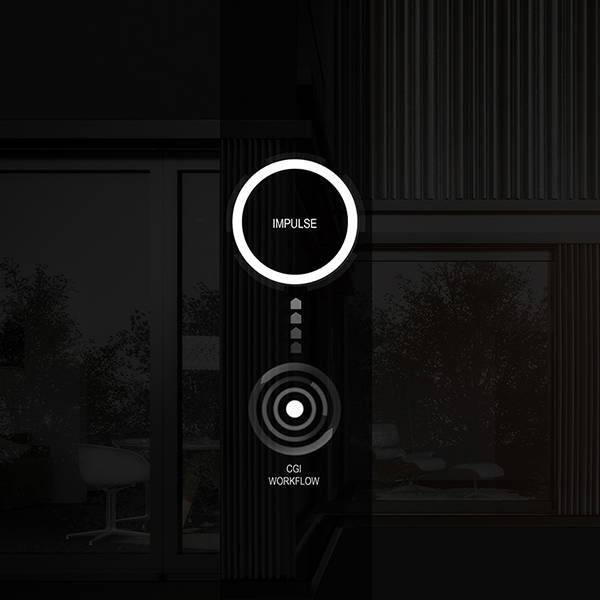
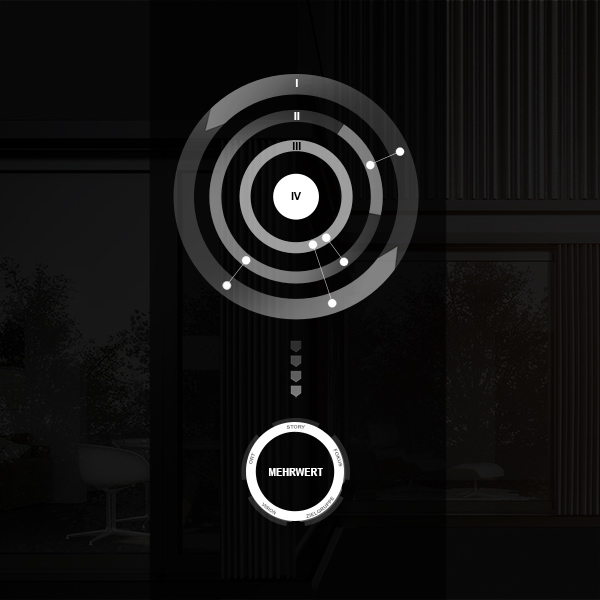
2812
1

Changed region(s): [[0.27, 0.0, 0.75, 0.87], [0.3, 0.54, 0.36, 0.63], [0.3, 0.84, 0.33, 0.87]]

diff --git a/pages_about_workflow.html b/pages_about_workflow.html
@@ -1,0 +1,259 @@
+<!doctype html>
+<html lang="en">
+  <head>
+    <!-- Basic page needs-->
+    <title>Ferencg Gor - Portfolio</title>
+    <meta charset="UTF-8"/>
+    <meta name="author" content=""/>
+    <meta name="description" content=""/>
+    <meta name="keywords" content=""/>
+    <!-- Mobile specific metas-->
+    <meta name="viewport" content="width=device-width,initial-scale=1.0"/>
+    <!-- Favicon-->
+    <link rel="shortcut icon" href="images/favicon.ico"/>
+    <!-- Google Web Fonts-->
+    <link rel="stylesheet" href="https://fonts.googleapis.com/css?family=Poppins:300,400,500,600,700"/>
+    <link rel="stylesheet" href="https://fonts.googleapis.com/css?family=Abril+Fatface"/>
+    <link rel="stylesheet" href="https://fonts.googleapis.com/css?family=Unna"/>
+    <link rel="stylesheet" href="https://fonts.googleapis.com/css?family=PT+Serif"/>
+    <link rel="stylesheet" href="https://fonts.googleapis.com/css?family=Muli"/>
+    <!-- Vendor CSS-->
+    <link rel="stylesheet" media="all" href="css/bootstrap.min.css"/>
+    <link rel="stylesheet" media="all" href="css/font-awesome.min.css"/>
+    <link rel="stylesheet" media="all" href="css/linearicons.css"/>
+<link rel="stylesheet" media="all" href="css/apolo-icons.css"/>
+    <link rel="stylesheet" media="all" href="css/hamburgers.min.css"/>
+    <link rel="stylesheet" media="all" href="css/animate.css"/>
+    <link rel="stylesheet" media="all" href="vendors/fancybox/jquery.fancybox.min.css"/>
+    <link rel="stylesheet" media="all" href="vendors/fullpage/jquery.fullpage.min.css"/>
+    <link rel="stylesheet" media="all" href="vendors/owl-carousel/assets/owl.carousel.min.css"/>
+    <link rel="stylesheet" media="all" href="vendors/mCustomScrollbar/jquery.mCustomScrollbar.min.css"/>
+    <link rel="stylesheet" media="all" href="vendors/arcticmodal/jquery.arcticmodal-0.3.css"/>
+    <!-- Theme CSS-->
+    <link rel="stylesheet" media="all" href="css/style.css"/>
+    <!-- Vendor JS-->
+    <script src="vendors/modernizr.js"></script>
+  </head>
+  <body class="apo-header-vertical-left apo-page-dark-skin apo-full-page-fixed-content" data-bg-img-src="images/page-bg-img-6.png">
+    <!-- Preloader-->
+    <div class="apo-preloader">
+      <div class="apo-preloader-outer">
+        <div class="apo-preloader-inner">
+          <div class="apo-loader">
+            <img src="images/logo-2.png" alt="">
+          </div>
+        </div>
+      </div>
+    </div>
+    <!-- End Preloader-->
+    <!-- Site Header-->
+    <!-- Hidden Side Column-->
+    <aside id="apo-hidden-column" class="apo-hidden-column apo-hidden-column-dark">
+      <div class="apo-hidden-column-container">
+        <header class="apo-hidden-column-header">
+          <div class="apo-hidden-column-col">
+            <div class="apo-grid apo-cols-2">
+              <div class="apo-grid-col"><a href="index.html" class="apo-logo"><img src="images/logo-light.png" alt=""/></a></div>
+              <div class="apo-grid-col apo-align-right">
+                <!-- Social Networks-->
+                <ul class="apo-social-networks">
+                 
+                  <li><a href="https://www.instagram.com/ferenc_gor/"><i class="fa fa-instagram"></i></a></li>
+                </ul>
+                <!-- End Social Networks-->
+              </div>
+            </div>
+          </div>
+        </header>
+        <div class="apo-hidden-column-content">
+          <div class="apo-hidden-column-col">
+            <!-- Navigation-->
+            <nav class="apo-navigation-container">
+              <ul class="apo-navigation">
+                <li><a href="index.html">Home</a>
+                  
+                </li>
+                <li><a href="pages_about_me.html">Über Mich</a></li>
+                <li class="apo-has-children"><a>Visionen</a>
+                  <!-- Sub Menu (level 2)-->
+                  <ul class="apo-sub-menu">
+                    	<li><a >"Big Picture" und Fokus</a></li>
+                      <li><a >Story neben Mehrwert</a></li>
+                      <li><a >Produktvisualisierung  - Virtual Studio</a></li>
+                  </ul>
+                  <!-- End of SubMenu-->
+                </li>
+             
+                <li><a href="pages_contact.html">Kontakt</a></li>
+              </ul>
+            </nav>
+            <!-- End Navigation-->
+          </div>
+        </div>
+        <footer class="apo-hidden-column-footer">
+          <div class="apo-hidden-column-col">
+            <div class="apo-hidden-column-actions">
+              <div class="apo-hidden-column-action">
+                
+              </div>
+              <div class="apo-hidden-column-action">
+                <button class="apo-close-btn apo-hidden-column-closing"><i class="icon icon-cross"></i>Close</button>
+              </div>
+            </div>
+          </div>
+        </footer>
+      </div>
+    </aside>
+    <!-- End Hidden Side Column-->
+    <header id="header" class="apo-header apo-header-dark apo-header-vertical">
+      <div class="apo-header-section">
+        <div class="apo-header-component-first">
+          <div class="apo-header-items">
+            <div class="apo-header-item">
+              <!-- Logo--><a href="index.html" title="Home" class="apo-logo"><img src="images/logo-light.png" alt="Logo"/></a>
+              <!-- End Logo-->
+            </div>
+            <div class="apo-header-item">
+              <!-- Social Networks-->
+              <ul class="apo-social-networks">
+                
+                <li><a href="https://www.instagram.com/ferenc_gor/"><i class="fa fa-instagram"></i></a></li>
+              </ul>
+              <!-- End Social Networks-->
+            </div>
+          </div>
+        </div>
+        <div class="apo-header-component-middle">
+          <div class="apo-header-items">
+            <div class="apo-header-item">
+             <h1 class="apo-page-title">WORKFLOW</h1>
+            </div>
+          </div>
+        </div>
+        <div class="apo-header-component-last">
+          <div class="apo-header-items">
+            
+            <div class="apo-header-item">
+              <!-- Navigation Button-->
+              <div type="button" class="apo-header-button apo-hidden-column-invoker apo-d-xs-none hamburger hamburger--emphatic"><span class="hamburger-box"><span class="hamburger-inner"></span></span></div>
+              <!-- End Navigation Button-->
+              <!-- Navigation Button-->
+              <div type="button" data-arctic-modal="modals/modal_full_screen_navigation.html" data-arctic-modal-type="ajax" class="apo-header-button hamburger apo-d-none apo-d-xs-inline-block hamburger--emphatic apo-hamburger-clickable"><span class="hamburger-box"><span class="hamburger-inner"></span></span></div>
+              <!-- End Navigation Button-->
+            </div>
+          </div>
+        </div>
+      </div>
+    </header>
+    <!-- End Site Header-->
+    <!-- Page Content-->
+    <div class="apo-page">
+      <div data-bg-img-src="images/img-wf.jpg" class="apo-full-page-fixed-col"></div>
+      <div id="apo-full-page" data-destroy-on-mobile="true" class="apo-full-page-container">
+        <!-- Navigation-->
+        <nav class="apo-full-page-navigation">
+          <ul id="apo-full-page-nav">
+            <li></li>
+          </ul>
+        </nav>
+        <!-- End Navigation-->
+        <div class="fp-section">
+          <section class="apo-section">
+            <header class="apo-person-header">
+            
+            </header>
+            <div class="apo-person-body">
+              <blockquote class="apo-person-position">
+                <p> Der Ziel ist, mit einer bilateral vorabgestimmten, optierten Workflow, einen starken Mehrwert in Gesamtprojekt oder in Portfolio zu generieren.</p>
+              </blockquote>
+            </div>
+            <footer class="apo-person-footer"><span class="apo-scroll-down-label">Scroll Down<i class="icon-arrow-down"></i></span></footer>
+          </section>
+        </div>
+        <div class="fp-section">
+          <section class="apo-section">
+            <header class="apo-person-header">
+              
+            </header>
+            <div class="apo-person-body">
+              <div class="apo-experience-list">
+                <article class="apo-experience-list-item">
+                
+                  <div class="apo-experience-list-item-body">
+                    <p><strong class="apo-experience-list-item-position">I. Konzeptaufbau, Feedbacks, Beratung</strong> - Bilaterale Abstimmung</p>
+                  </div>
+                </article>
+				 <article class="apo-experience-list-item">
+                  <div class="apo-experience-list-item-body">
+                    <p><strong class="apo-experience-list-item-position">II. Fokus: Komposition, Perspektive</strong> - 3-4 “Weiss”vorschau/Frame pro Perspektive
+		- 3D Modellaufbau/Ergänzungen</p>
+                  </div>
+                </article>
+				 <article class="apo-experience-list-item">
+                  <div class="apo-experience-list-item-body">
+                    <p><strong class="apo-experience-list-item-position">III. Gesamtansicht/Montage</strong> - 1 Vorschau ( 2k ) - 90% fertiger Stand 
+		- Texturen, Belichtungskonzept
+		- Komposition & Story</p>
+                  </div>
+                </article>
+				 <article class="apo-experience-list-item">
+                  <div class="apo-experience-list-item-body">
+                    <p><strong class="apo-experience-list-item-position">IV. Finales Ziel</strong> - Finale Visualisierung(4k)/Animation(1080p)
+ 		
+		- Höchster Quatät & starke Story</p>
+                  </div>
+                </article>
+               
+              
+              </div>
+            </div>
+            <footer class="apo-person-footer"><span class="apo-scroll-down-label">Scroll Down<i class="icon-arrow-down"></i></span></footer>
+          </section>
+        </div>
+        <div class="fp-section">
+          <div class="apo-section apo-align-center">
+            <div class="apo-personal-body"><img src="images/logo-white-large.png" alt="" class="apo-personal-logo"/>
+              <p>Ich freue mich auf Ihre Kontaktaufnahme
+zu starten.</p>
+              <ul class="apo-personal-body">
+                <li><a href="mailto:ferencgor.arch@gmail.com">ferencgor.arch@gmail.com</a></li>
+                <li><a href="tel:#">+41 77 523 1747</a></li>
+              </ul>
+            </div>
+          </div>
+        </div>
+      </div>
+    </div>
+    <!-- End Page Content-->
+    <!-- Footer-->
+    <!-- End Footer-->
+    <!-- Vendor JS-->
+    <script src="https://code.jquery.com/jquery-3.1.1.min.js" integrity="sha256-hVVnYaiADRTO2PzUGmuLJr8BLUSjGIZsDYGmIJLv2b8=" crossorigin="anonymous"></script>
+    <script src="vendors/handlebars-v4.0.5.js"></script>
+    
+    <script src="vendors/wt.validator.min.js"></script>
+    <script src="vendors/jquery.easing.1.3.min.js"></script>
+    <script src="vendors/mad.accordion.js"></script>
+    <script src="vendors/mad.customselect.js"></script>
+    <script src="vendors/mad.tabs.js"></script>
+    <script src="vendors/wat.counters.js"></script>
+    <script src="vendors/wt.jquery.nav.1.0.js"></script>
+    <script src="vendors/isotope.pkgd.min.js"></script>
+    <script src="vendors/imagesloaded.pkgd.min.js"></script>
+    <script src="vendors/fancybox/jquery.fancybox.min.js"></script>
+    <script src="vendors/appear.min.js"></script>
+    <script src="vendors/owl-carousel/owl.carousel.min.js"></script>
+    <script src="vendors/mCustomScrollbar/jquery.mCustomScrollbar.concat.min.js"></script>
+    <script src="vendors/arcticmodal/jquery.arcticmodal-0.3.min.js"></script>
+    <script src="vendors/fullpage/vendors/scrolloverflow.min.js"></script>
+    <script src="vendors/fullpage/jquery.fullpage.min.js"></script>
+    <!-- Theme JS-->
+    <script src="js/apolo.core.js"></script>
+    <script src="js/modules/apolo.newsletter.js"></script>
+    <script src="js/modules/apolo.sameheight.js"></script>
+    <script src="js/modules/apolo.appear.js"></script>
+    <script src="js/modules/apolo.isotope.js"></script>
+    <script src="js/modules/apolo.fullpage.js"></script>
+    <script src="js/apolo.init.js"></script>
+  </body>
+</html>

diff --git a/index.html b/index.html
@@ -260,7 +260,7 @@
               <div class="apo-aligner-outer">
                 <div class="apo-aligner-inner">
                   <header class="apo-project-header">
-                    <h2 class="apo-project-title"><a >WORKFLOW</a></h2>
+                    <h2 class="apo-project-title"><a href="pages_about_workflow.html">WORKFLOW</a></h2>
                     <ul class="apo-project-categories">
                       <li><a href="#">Flexibel und Effizient</a></li>
                     </ul>
@@ -300,7 +300,7 @@
               <div class="apo-aligner-outer">
                 <div class="apo-aligner-inner">
                   <header class="apo-project-header">
-                    <h2 class="apo-project-title"><a href=>Tag&Nacht</a></h2>
+                    <h2 class="apo-project-title"><a href=portfolio_single_post_nacht.html>Tag&Nacht</a></h2>
                     <ul class="apo-project-categories">
                       <li><a href="portfolio_single_post_nacht.html">Tageszeit gehört zum Story </a></li>
                     </ul>
